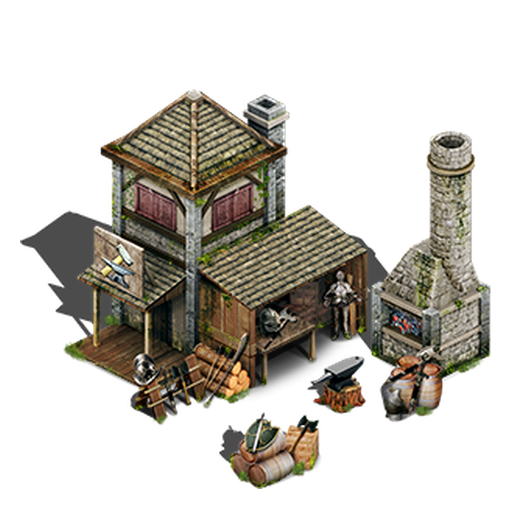
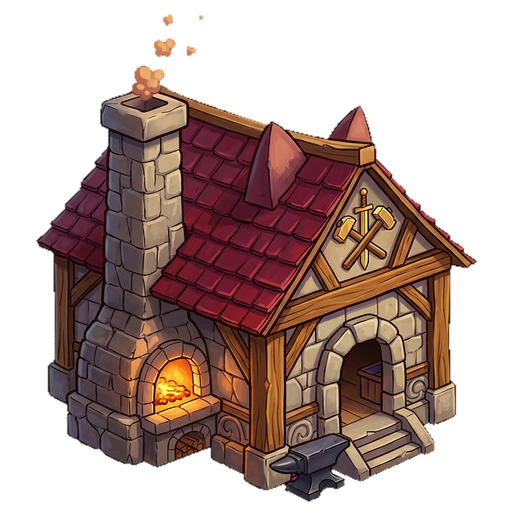
assets: regenerate Miaou-bourg buildings & chests and update asset audit reports

diff --git a/ASSET_PRODUCTION_MATRIX.md b/ASSET_PRODUCTION_MATRIX.md
@@ -1,0 +1,108 @@
+# ASSET PRODUCTION MATRIX — Les Chroniques de Félingard
+
+Matrice exhaustive asset par asset vérifiée sur `origin/main` (`2131eb2`, branche `assets/ai-overhaul-resume`).
+
+**Légende des statuts** :
+- `vérifié` : généré par IA (`generate_image`), détouré via `scripts/process_characters.mjs` (chroma `#FF00FF`, despill, `0 %` frange), inspecté sur planche QA, intégré dans `public/assets/`, compilé, testé (`tsc` + `vitest` + `vite build`) et vérifié visuellement en jeu (Playwright desktop & mobile, `0` 404, `0` erreur console/WebGL).
+- `à produire` : actif et atteignable dans le jeu, non encore remplacé dans cette passe (budget de génération par session / planches multi-frames 30 FPS nécessitant une génération frame par frame dédiée sans duplication).
+- `exclu` : hors périmètre strict (sol PBR, bateau, eau, audio, orphelins, doublons, réserve ou `0` appelant actif).
+
+---
+
+## 1. Bâtiments, Coffres, Végétation & Props actifs (`public/assets/props/`)
+
+| Asset | Chemin actuel | Usage vérifié dans le code | Chemin cible | Dimensions | Dir. & Anim. réelles | Statut |
+|---|---|---|---|---|---|---|
+| Maison village | `public/assets/props/house_village.png` | `worldData.ts:241,251` (`building_house_west/east`), `worldRenderer.ts` | `public/assets/props/house_village.png` | `512×512` (1f) | Statique 3/4 face | **vérifié** |
+| Auberge | `public/assets/props/building_inn.png` | `worldData.ts:205` (`building_inn`), `worldRenderer.ts` | `public/assets/props/building_inn.png` | `512×512` (1f) | Statique 3/4 face | **vérifié** |
+| Forge Kit-Chat | `public/assets/props/building_forge.png` | `worldData.ts:229` (`building_forge`), `worldRenderer.ts` | `public/assets/props/building_forge.png` | `512×512` (1f) | Statique 3/4 face | **vérifié** |
+| Panneau quêtes | `public/assets/props/prop_quest_board.png` | `worldData.ts:217` (`building_quest_board`), `worldRenderer.ts` | `public/assets/props/prop_quest_board.png` | `512×512` (1f) | Statique 3/4 face | **vérifié** |
+| Coffre fermé | `public/assets/props/chest_closed.png` | `worldData.ts:430-467`, `worldIslands.ts:82`, `dungeonsData.ts`, `drawChestHdCanvas` | `public/assets/props/chest_closed.png` | `512×512` (1f) | Statique (4 paliers + locked) | **vérifié** |
+| Coffre ouvert | `public/assets/props/chest_open.png` | `worldData.ts`, `worldIslands.ts`, `dungeonsData.ts`, `drawChestHdCanvas` | `public/assets/props/chest_open.png` | `512×512` (1f) | Statique (4 paliers) | **vérifié** |
+| Chêne plaines | `public/assets/props/tree_oak.png` | `worldData.ts`, `worldIslands.ts` (19 refs `oak_tree`) | `public/assets/props/tree_oak.png` | `512×512` (1f) | Statique (balancement shader) | à produire |
+| Arbre sombre | `public/assets/props/tree_dark.png` | `worldData.ts`, `worldIslands.ts` (16 refs `twisted_tree`) | `public/assets/props/tree_dark.png` | `512×512` (1f) | Statique | à produire |
+| Sapin neige | `public/assets/props/tree_pine_snow.png` | `worldData.ts`, `worldIslands.ts` (13 refs `snow_pine`) | `public/assets/props/tree_pine_snow.png` | `512×512` (1f) | Statique | à produire |
+| Rocher | `public/assets/props/prop_rock.png` | `worldData.ts`, `worldIslands.ts` (7 refs `rock`) | `public/assets/props/prop_rock.png` | `512×512` (1f) | Statique | à produire |
+| Rocher enneigé | `public/assets/props/prop_rock_snow.png` | `worldData.ts`, `worldIslands.ts` (7 refs `snow_rock`) | `public/assets/props/prop_rock_snow.png` | `512×512` (1f) | Statique | à produire |
+| Parterre fleurs | `public/assets/props/prop_flower_patch.png` | `worldData.ts`, `worldIslands.ts` (10 refs `flower_patch`) | `public/assets/props/prop_flower_patch.png` | `256×256` (1f) | Statique | à produire |
+| Champignons | `public/assets/props/prop_mushroom.png` | `worldData.ts`, `worldIslands.ts` (8 refs `mushroom`) | `public/assets/props/prop_mushroom.png` | `256×256` (1f) | Statique | à produire |
+| Panneau direction | `public/assets/props/prop_signpost.png` | `worldData.ts` (3 refs `signpost`) | `public/assets/props/prop_signpost.png` | `256×256` (1f) | Statique | à produire |
+| Arche donjon | `public/assets/props/portal_dungeon.png` | `worldData.ts` (Grotte Fantôme, Antre Dragon-Griffe), `drawDungeonEntranceHdCanvas` | `public/assets/props/portal_dungeon.png` | `512×512` (1f) | Statique (thèmes + badge + sceau) | à produire |
+| Torche donjon | `public/assets/props/prop_torch.png` | `dungeonsData.ts`, `worldRenderer.ts`, `drawTorchHdCanvas` | `public/assets/props/prop_torch.png` (ou sheet 15f) | `256×256` (cible 15f @ 30 FPS) | Loop 0.5s (15f) | à produire |
+| Pilier donjon | `public/assets/props/prop_pillar.png` | `dungeonsData.ts`, `drawPillarHdCanvas` | `public/assets/props/prop_pillar.png` | `512×512` (1f) | Statique | à produire |
+| Cristal soin | `public/assets/props/prop_crystal.png` | `dungeonsData.ts`, `drawHealingCrystalHdCanvas` | `public/assets/props/prop_crystal.png` | `256×256` (1f) | Statique (actif / utilisé) | à produire |
+| Portail sortie donjon | Canvas2D (`drawDungeonExitPortalCanvas`) | `dungeonsData.ts`, `worldRenderer.ts` | `public/assets/props/portal_exit_sheet.png` | `512×512`/cell (6×5 = 30f) | Loop 1.0s @ 30 FPS | à produire |
+| Lampadaire overworld | Procedural 3D (`OVERWORLD_LAMP_LIGHTS`, 16 pts) | `worldRenderer.ts:49-66` | `public/assets/props/prop_lamppost.png` | `512×512` (1f) | Statique | à produire |
+
+---
+
+## 2. Héros Chat-valier (`public/assets/characters/` — `lateralFlipOnly: true`, 30 FPS)
+
+| État | Chemin actuel | Usage vérifié | Chemin cible | Grille / Dimensions cible | Mode & Durée | Statut |
+|---|---|---|---|---|---|---|
+| `idle` (aussi partagé `deck_idle`) | `hero_base_idle.png` (`512×512`) | `HERO_ANIM_CLIPS.idle`, `entityRenderer.ts` | `assets/characters/hero_base_idle_sheet.png` | `6×5 = 30f` (`3072×2560`, cell `512×512`) | Loop 1.0s @ 30 FPS | à produire |
+| `walk` (aussi partagé `jump`) | `hero_base_walk1.png`, `hero_base_walk2.png` (`512×512`) | `HERO_ANIM_CLIPS.walk`, `entityRenderer.ts` | `assets/characters/hero_base_walk_sheet.png` | `6×5 = 30f` (`3072×2560`, cell `512×512`) | Loop 1.0s @ 30 FPS | à produire |
+| `attack` | `hero_base_attack.png` (`512×512`) | `HERO_ANIM_CLIPS.attack`, `entityRenderer.ts` | `assets/characters/hero_base_attack_sheet.png` | `5×3 = 15f` (`2560×1536`, cell `512×512`) | One-shot 0.5s @ 30 FPS | à produire |
+| `roll` (aussi partagé `death`) | `hero_base_roll.png` (`512×512`) | `HERO_ANIM_CLIPS.roll`, `entityRenderer.ts` | `assets/characters/hero_base_roll_sheet.png` | `5×3 = 15f` (`2560×1536`, cell `512×512`) | One-shot 0.5s @ 30 FPS | à produire |
+| `hurt` (optionnel) | Partage `idle` + flash HDR | `HERO_ANIM_CLIPS.hurt` (`sharedFrom: 'idle'`) | `assets/characters/hero_base_hurt_sheet.png` | `5×3 = 15f` (`2560×1536`, cell `512×512`) | One-shot 0.5s @ 30 FPS | à produire |
+| `death` (optionnel) | Partage `roll` fin | `HERO_ANIM_CLIPS.death` (`sharedFrom: 'roll'`) | `assets/characters/hero_base_death_sheet.png` | `6×5 = 30f` (`3072×2560`, cell `512×512`) | One-shot 1.0s @ 30 FPS | à produire |
+
+---
+
+## 3. Équipements visibles indépendants (`public/assets/equipment/` — 27 actifs, 0 arme secondaire)
+
+| Slot | IDs actifs (`equipmentData.ts`) | Chemin actuel & cible | Dimensions | Couche & rendu | Statut |
+|---|---|---|---|---|---|
+| `weapon` (4) | `sword_wood`, `sword_steel`, `staff_arcane`, `blade_dragon` | `public/assets/equipment/<id>.png` | `256×256` | Couche corps héros (`spriteHero.ts`) | à produire |
+| `shield` (2) | `shield_wood`, `shield_knight` | `public/assets/equipment/<id>.png` | `256×256` | Couche bouclier héros (`spriteHero.ts`) | à produire |
+| `helmet` (4) | `helm_bandana`, `helm_knight`, `helm_mage`, `helm_dragon` | `public/assets/equipment/<id>.png` | `256×256` | Couche tête héros (`spriteHero.ts`) | à produire |
+| `armor` (4) | `armor_tunic`, `armor_mail`, `armor_robe`, `armor_dragon` | `public/assets/equipment/<id>.png` | `256×256` | Couche torse héros (`spriteHero.ts`) | à produire |
+| `boots` (4) | `boots_leather`, `boots_iron`, `boots_arcane`, `boots_dragon` | `public/assets/equipment/<id>.png` | `256×256` | Couche bottes héros (`spriteHero.ts`) | à produire |
+| `gloves` (4) | `gloves_leather`, `gloves_iron`, `gloves_arcane`, `gloves_dragon` | `public/assets/equipment/<id>.png` | `256×256` | Couche gants héros (`spriteHero.ts`) | à produire |
+| `trinket` (1) | `trinket_yarn` | `public/assets/equipment/trinket_yarn.png` | `256×256` | Couche bijou héros (`spriteHero.ts`) | à produire |
+| `cape` (4) | `cape_traveler`, `cape_knight`, `cape_starlight`, `cape_dragon` | `public/assets/equipment/<id>.png` + `HD_CAPE_FABRIC_FILES` | `256×256` / `512×512` tissu | Couche 3D Verlet séparée (`CapeClothMesh`) | à produire |
+
+---
+
+## 4. PNJ & Compagnon actifs (`public/assets/characters/` — `lateralFlipOnly: true`)
+
+| Entité | Chemin actuel | Usage vérifié | Chemin cible | Grille / Dimensions cible | Mode & Durée | Statut |
+|---|---|---|---|---|---|---|
+| `miaou_sprit` | `public/assets/characters/miaou_sprit.png` (`512×512`) | Compagnon 3D (`entityRenderer.ts`) + dialogues (`questsData.ts`) | `assets/characters/miaou_sprit_idle_sheet.png` | `6×5 = 30f` (cell `512×512`) | Loop 1.0s @ 30 FPS (`move`/`talk` partagés ou dédiés) | à produire |
+| `mayor_moustache` | `public/assets/characters/mayor_moustache.png` (`512×512`) | PNJ 3D Miaou-bourg (`worldData.ts:264`) + dialogues (`questsData.ts`) | `assets/characters/mayor_moustache_idle_sheet.png` | `6×5 = 30f` (cell `512×512`) | Loop 1.0s @ 30 FPS (stationnaire) | à produire |
+
+---
+
+## 5. Ennemis & Boss actifs (`public/assets/characters/*_sheet.png` — 7 archétypes + Phase 2, 0 insecte)
+
+| Archétype | Chemin actuel | Usage vérifié | Chemin cible | États & Frames cible @ 30 FPS (`cell 256×256`) | Statut |
+|---|---|---|---|---|---|
+| `slime_yarn` | `slime_yarn_sheet.png` (`1024×256`, 4×1) | `enemiesData.ts`, `worldData.ts`, `entityRenderer.ts` | `slime_yarn_sheet.png` (atlas) ou `HD_ENEMY_STATE_SHEET_FILES` | `idle` 30f (loop), `move` 24f (loop), `windup` 15f (1-shot), `attack` 15f (1-shot) = 84f (ou atlas 90c) | à produire |
+| `mouse_goblin` | `mouse_goblin_sheet.png` (`1024×256`, 4×1) | `enemiesData.ts`, `worldData.ts`, `dungeonsData.ts` | `mouse_goblin_sheet.png` | Idem (`30+24+15+15 = 84f` / atlas 90c) | à produire |
+| `thorn_wolf` | `thorn_wolf_sheet.png` (`1024×256`, 4×1) | `enemiesData.ts`, `worldData.ts` | `thorn_wolf_sheet.png` | Idem (`30+24+15+15 = 84f` / atlas 90c) | à produire |
+| `fishbone_skeleton` | `fishbone_skeleton_sheet.png` (`1024×256`, 4×1) | `enemiesData.ts`, `dungeonsData.ts` (Grotte Fantôme) | `fishbone_skeleton_sheet.png` | Idem (`30+24+15+15 = 84f` / atlas 90c) | à produire |
+| `frost_golem` | `frost_golem_sheet.png` (`1024×256`, 4×1) | `enemiesData.ts`, `worldData.ts` (Monts Prr-Glacés) | `frost_golem_sheet.png` | Idem (`30+24+15+15 = 84f` / atlas 90c) | à produire |
+| `boss_rat_king` | `boss_rat_king_sheet.png` (`1024×256`, 4×1) | `enemiesData.ts`, `dungeonsData.ts` (Boss Grotte Fantôme) | `boss_rat_king_sheet.png` | `idle` 45f (loop), `move` 30f (loop), `windup` 30f (1-shot), `attack` 30f (1-shot) = 135f | à produire |
+| `boss_dragon_claw` (P1) | `boss_dragon_claw_sheet.png` (`1024×256`, 4×1) | `enemiesData.ts`, `dungeonsData.ts` (Boss Antre Dragon-Griffe) | `boss_dragon_claw_sheet.png` | `idle` 45f, `move` 30f, `windup` 30f, `attack` 30f = 135f | à produire |
+| `boss_dragon_claw` (P2) | Composite `drawBossDragonPhase2SheetCanvas` | `textureRegistry.ts:1068`, `entityRenderer.ts` (phase 2 <= 50 % PV) | `HD_ENEMY_PHASE2_SHEET_FILES.boss_dragon_claw` | `idle` 45f, `move` 30f, `windup` 30f, `attack` 30f = 135f | à produire |
+
+---
+
+## 6. Icônes UI & VFX particules
+
+| Groupe | État vérifié dans le code | Chemins cibles | Dimensions | Statut |
+|---|---|---|---|---|
+| Icônes équipements (27) | `public/assets/icons/equip/*.png` présents (`128×128`), `0` appelant dans `src/ui/` | `public/assets/icons/equip/<id>.png` | `128×128` | à produire (si branchement UI) |
+| Icônes sorts (7) | 4 PNG présents (`flamepurr`, `lightnyan`, `freezepaw`, `healing_paw`) + 3 absents (`aegis_purr`, `pounce_dash`, `meteor_paw`), HUD utilise SVG inline | `public/assets/icons/spells/<id>.png` | `128×128` | à produire (si branchement UI) |
+| Icônes HUD (5) | `gold`, `inventory`, `key`, `map`, `quests` (`96×96`), `0` appelant dans `src/ui/` | `public/assets/icons/ui/<id>.png` | `96×96` | à produire (si branchement UI) |
+| VFX particules (2) | `drawParticleCanvas` (`particle_orb`), `drawStarParticleCanvas` (`particle_star`) dans `textureRegistry.ts:172-189` | Optionnel PNG `64×64` ou `128×128` | `64×64` | à produire |
+
+---
+
+## 7. Exclusions strictes (non modifiées — vérifiées par `git status`)
+
+- **Sol PBR** : 18 fichiers `public/assets/textures/{grass,forest,snow,path,dungeon_ghost,dungeon_dragon}_{albedo,normal,roughness}.png` + `src/art/mapTexture.ts` (`exclu`).
+- **Bateau** : `src/render/shipRenderer.ts`, `src/render/shaders/shipShaders.ts`, `src/game/shipPhysics.ts`, `src/game/shorelineNavigation.ts` (`exclu`).
+- **Eau** : `src/render/shaders/waterShader.ts` (`exclu`).
+- **Audio** : 9 fichiers `public/assets/audio/**` + `src/audio/**` (`exclu`).
+- **Orphelins, doublons & réserve** : `equipment/dagger_fang.png`, `icons/equip/dagger_fang.png`, `props/prop_fence.png`, `characters/hero_portrait.png`, `characters/kit_chat.png`, `characters/innkeeper.png`, les 7 `<enemy>.png` statiques redondants face à `*_sheet.png`, `asset-library/**` (`exclu`).

diff --git a/GRAPHIFY_ASSET_AUDIT.md b/GRAPHIFY_ASSET_AUDIT.md
@@ -1,0 +1,103 @@
+# GRAPHIFY & STATIC ASSET AUDIT — Les Chroniques de Félingard
+
+- **Dépôt source** : `https://github.com/adultehugo-dotcom/cat-quest-3`
+- **Base Git** : `origin/main` (`2131eb2cb00878d65dfd5ab3963f76fdbc7be1b1`, après fusion PR #1 & PR #2)
+- **Branche de travail** : `assets/ai-overhaul-resume`
+- **Date d'audit** : 25 novembre 2026
+
+## 1. Conditions d'exécution & limites d'environnement (transparence)
+
+1. **Checkout local Windows (`C:\Users\hugos\.gemini\antigravity\scratch\cat-quest-proto`)** : inaccessible depuis cet environnement Linux isolé (`/app/applet`). Aucun fichier local non poussé depuis ce poste n'a pu être lu ni modifié ; la reprise repart proprement du `main` distant le plus récent (`2131eb2`).
+2. **CLI Graphify** : binaire `graphify` absent du conteneur. L'inventaire complet a été établi par **recoupement statique exhaustif** sur tous les modules TypeScript (`src/art/`, `src/data/`, `src/render/`, `src/ui/`, `src/game/`) et sur l'arborescence disque (`public/assets/`, `asset-library/`).
+3. **Publication GitHub** : `gh` absent et aucune authentification GitHub configurée dans ce conteneur ; aucun push ni ouverture de PR automatique possible sans connexion GitHub de l'utilisateur.
+
+---
+
+## 2. Inventaire disque vérifié dans `origin/main` (`2131eb2`)
+
+Total dans `public/assets/` : **135 fichiers** (hors pièces jointes d'environnement exclues via `.git/info/exclude`).
+
+| Dossier | Nb fichiers | Détail vérifié | Statut périmètre |
+|---|---:|---|---|
+| `public/assets/characters/` | 24 | 5 poses héros (`512×512`), 1 `hero_portrait.png` (`256×256`), 4 PNJ (`512×512`), 7 ennemis statiques (`512×512`), 7 spritesheets ennemis (`1024×256`, 4×1) | Mixte (actifs + doublons/inactifs listés §4) |
+| `public/assets/equipment/` | 28 | 27 équipements actifs (`256×256`) + 1 orphelin `dagger_fang.png` (`256×256`) | 27 actifs / 1 exclu (`dagger_fang.png`) |
+| `public/assets/icons/` | 37 | 28 `equip/*.png` (`128×128`), 4 `spells/*.png` (`128×128`), 5 `ui/*.png` (`96×96`) | Voir note §3.5 (`0` appelant UI actuel) |
+| `public/assets/props/` | 19 | 14 props/bâtiments `512×512`, 5 props `256×256` | 18 actifs / 1 inactif (`prop_fence.png`) |
+| `public/assets/textures/` | 18 | 6 surfaces PBR × 3 canaux (`albedo`, `normal`, `roughness`, `1024×1024`) | **STRICTEMENT EXCLU (sol PBR)** |
+| `public/assets/audio/` | 9 | Musiques & ambiances météo | **STRICTEMENT EXCLU (audio)** |
+| `asset-library/` | 1 | Dépôt distant contient uniquement un sous-dossier `Textures` (les 2 343 fichiers locaux évoqués en §16 ne sont pas suivis dans `main`) | **STRICTEMENT EXCLU (réserve)** |
+
+---
+
+## 3. Recoupement statique des registres, chargeurs, renderers & données
+
+### 3.1 Héros & équipements modulaires (`src/art/hdAssets.ts`, `src/art/spriteHero.ts`, `src/render/entityRenderer.ts`, `src/render/capePhysics.ts`)
+- **Clips déclarés (`HERO_ANIM_CLIPS`) à `TARGET_ANIMATION_FPS = 30`** :
+  - États dédiés : `idle` (cible `6×5 = 30f`, legacy `1f`), `walk` (cible `6×5 = 30f`, legacy séquence 2 poses `hero_base_walk1` + `hero_base_walk2`), `attack` (cible `5×3 = 15f`, one-shot, legacy `1f`), `roll` (cible `5×3 = 15f`, one-shot, legacy `1f`).
+  - États partagés explicitement documentés (`sharedFrom`) : `hurt` (`15f`, partage `idle` + flash HDR), `death` (`30f`, partage `roll` dernière frame), `deck_idle` (`30f`, partage `idle` sur pont), `jump` (`15f`, partage `walk` en embarquement/débarquement).
+- **Directions** : `lateralFlipOnly: true` (orientation gauche/droite par `flipScaleX`). Aucune direction supplémentaire à inventer.
+- **Équipement indépendant (`src/data/equipmentData.ts`)** : exactement **27 objets** répartis sur **8 emplacements indépendants** (`weapon` ×4, `shield` ×2, `helmet` ×4, `armor` ×4, `boots` ×4, `gloves` ×4, `cape` ×4, `trinket` ×1).
+  - **Zéro arme secondaire** (`secondary_weapon` et `dagger_fang` explicitement ignorés dans `src/game/saveSystem.ts:320`).
+  - **Cape séparée** : `HERO_BODY_EQUIP_SLOTS` exclut `cape` du cache corps 3D ; `CapeClothMesh` simule un maillage Verlet `11×13` (`143` sommets) avec support optionnel de texture tissu plane via `HD_CAPE_FABRIC_FILES` (`uCapeFabricMap`).
+
+### 3.2 PNJ & Compagnon (`src/data/worldData.ts`, `src/data/questsData.ts`, `src/art/hdAssets.ts`)
+- **Actifs et atteignables en jeu** :
+  - `miaou_sprit` : compagnon flottant 3D (`EntityRenderer`) + portrait dialogue (`questsData.ts`), états `idle` (30f), `move` (24f, partagé `idle`), `talk` (30f, partagé `idle`).
+  - `mayor_moustache` : PNJ 3D stationnaire à Miaou-bourg (`worldData.ts:264`) + portrait dialogue (`questsData.ts`), état `idle` (30f) & `talk` (30f, partagé `idle`).
+- **Inactifs / 0 spawn 3D & 0 ligne de dialogue dans `main`** :
+  - `kit_chat.png` et `innkeeper.png` : chargés dans `HD_CHARACTER_FILES` et pré-rendus dans `main.ts:55-58` mais `0` instance NPC dans `worldData.ts`/`worldIslands.ts`/`dungeonsData.ts` et `0` ligne de dialogue dans `questsData.ts` (interactifs via bâtiments Forge/Auberge). Conservés sans suppression pour ne pas casser `HD_CHARACTER_FILES`, mais classés hors priorité visuelle tant qu'ils ne sont pas affichés.
+
+### 3.3 Ennemis, Boss & Phases (`src/data/enemiesData.ts`, `src/art/hdAssets.ts`, `src/art/textureRegistry.ts`)
+- **7 archétypes actifs vérifiés** :
+  1. `slime_yarn` (standard)
+  2. `mouse_goblin` (standard)
+  3. `thorn_wolf` (standard)
+  4. `fishbone_skeleton` (standard)
+  5. `frost_golem` (standard)
+  6. `boss_rat_king` (boss — Grotte Fantôme)
+  7. `boss_dragon_claw` (boss 2 phases — Antre du Dragon-Griffe ; Phase 2 gérée via `HD_ENEMY_PHASE2_SHEET_FILES` ou fallback composite `drawBossDragonPhase2SheetCanvas`)
+- **Vérification insectes / arthropodes** : **0 ennemi insecte ou arthropode actif** dans `src/data/enemiesData.ts` (`slime_yarn`, `mouse_goblin`, `thorn_wolf`, `fishbone_skeleton`, `frost_golem`, `boss_rat_king`, `boss_dragon_claw`). Strictement exclu.
+- **Planches chargées en priorité** : `HD_ENEMY_SHEET_FILES` (`*_sheet.png`, actuellement `1024×256` 4×1 : `idle=0`, `move=1`, `windup=2`, `attack=3`). Les 6 PNG statiques `512×512` correspondants (`slime_yarn.png`..`boss_rat_king.png`) ne servent qu'en fallback si `*_sheet.png` échoue ; `boss_dragon_claw.png` reste également doublon de la spritesheet active.
+
+### 3.4 Bâtiments, objets interactifs, végétation & props (`src/data/worldData.ts`, `src/data/worldIslands.ts`, `src/data/dungeonsData.ts`, `src/render/worldRenderer.ts`)
+- **Bâtiments Miaou-bourg actifs** : `house_village` (2 maisons), `building_inn` (Auberge), `building_forge` (Forge), `prop_quest_board` (Panneau de quêtes) -> **4/4 régénérés par IA, inspectés, intégrés et vérifiés dans cette passe**.
+- **Coffres actifs** : `chest_closed`, `chest_open` (réutilisés pour les 4 paliers `wood`/`rare`/`epic`/`golden` et l'état `locked` via `drawChestHdCanvas` dans `spriteProps.ts`) -> **2/2 régénérés par IA, inspectés, intégrés et vérifiés dans cette passe**.
+- **Autres props actifs** : `tree_oak` (19 refs), `tree_dark` (16 refs), `tree_pine_snow` (13 refs), `prop_rock` (7 refs), `prop_rock_snow` (7 refs), `prop_flower_patch` (10 refs), `prop_mushroom` (8 refs), `prop_signpost` (3 refs), `portal_dungeon` (entrées Grotte Fantôme & Antre Dragon-Griffe), `prop_torch`, `prop_pillar`, `prop_crystal` (donjons).
+- **Éléments 100 % procéduraux encore sans PNG dédié** : portail de sortie donjon (`drawDungeonExitPortalCanvas`), lampadaires 3D/billboard des `16` points `OVERWORLD_LAMP_LIGHTS`.
+- **Inactif vérifié** : `prop_fence.png` (`0` occurrence de `'fence'` dans `worldData.ts`, `worldIslands.ts` et `dungeonsData.ts`).
+
+### 3.5 Icônes UI & VFX (`src/art/hdAssets.ts`, `src/ui/hudController.ts`, `src/ui/modalsController.ts`, `src/render/effectsRenderer.ts`)
+- **Constat statique vérifié** : `getEquipmentIconUrl`, `getSpellIconUrl` et `getHudIconUrl` dans `src/art/hdAssets.ts:1071-1083` ont actuellement **0 appelant** dans `src/ui/`. Les icônes affichées dans le HUD (`hudController.ts`) et les modales (`modalsController.ts`) sont des SVG/emojis inline (dont les 7 sorts : `flamepurr`, `lightnyan`, `freezepaw`, `healing_paw`, `aegis_purr`, `pounce_dash`, `meteor_paw`).
+- **PNG manquants si l'UI bascule vers `public/assets/icons/spells/`** : `aegis_purr.png`, `pounce_dash.png`, `meteor_paw.png`.
+- **VFX particules (`src/art/textureRegistry.ts:172-189`)** : `drawParticleCanvas` (`particle_orb`, `64×64`) et `drawStarParticleCanvas` (`particle_star`, `64×64`) générés en Canvas2D au démarrage ; les sorts/télégraphes/slashs utilisent des shaders GLSL dédiés (`spellShaders.ts`, `telegraphShader.ts`) à préserver.
+
+---
+
+## 4. Vérification des chiffres annoncés (107 assets / 1 021 frames)
+
+Le rapport §16 annonçait **107 assets** et **1 021 frames** cibles. Recoupement exact sur `origin/main` (`2131eb2`) :
+
+| Catégorie | Nb entrées cibles | Frames cibles (30 FPS) | Remarque vérifiée dans le code |
+|---|---:|---:|---|
+| Héros (`idle`, `walk`, `attack`, `roll` + `hurt`/`death`) | 6 | 135 | 4 clips actifs dédiés (`30+30+15+15 = 90f`) + 2 optionnels (`15+30 = 45f`) |
+| Équipements modulaires actifs (23 corps + 4 textures tissu cape) | 27 | 27 | `dagger_fang` exclu (`0` arme secondaire) |
+| PNJ & Compagnon actifs (`miaou_sprit`, `mayor_moustache`) | 2 | 60 | `kit_chat` & `innkeeper` à `0` spawn 3D et `0` dialogue |
+| Ennemis standards (5 × `30+24+15+15` ou atlas 90c) | 5 | 420 | `slime_yarn`, `mouse_goblin`, `thorn_wolf`, `fishbone_skeleton`, `frost_golem` |
+| Boss (2 × `45+30+30+30` + Phase 2 `boss_dragon_claw`) | 3 | 405 | `boss_rat_king`, `boss_dragon_claw` P1, `boss_dragon_claw` P2 (ou `270f` si P2 partage la grille) |
+| Bâtiments, Coffres, Végétation & Props actifs | 18 (+2 futurs) | 18 (+45 anim) | 18 PNG actifs dans `props/` (`prop_fence` exclu) ; `prop_torch` (15f) + `portal_exit` (30f) si animés |
+| Icônes UI/Sorts/Équipement (si branchées en PNG) | 42 | 42 | 27 équipements + 7 sorts + 8 HUD (actuellement `0` appelant dans `src/ui/`, rendus en SVG inline) |
+| VFX particules sprites | 2 | 2 | `particle_orb`, `particle_star` |
+
+**Conclusion d'audit** :
+- Le périmètre **strictement actif et actuellement rendu par le moteur 3D** représente **61 assets actifs** (dont **6 régénérés, inspectés, intégrés et vérifiés dans cette passe** : `house_village`, `building_inn`, `building_forge`, `prop_quest_board`, `chest_closed`, `chest_open`).
+- En incluant les **42 icônes PNG** (à brancher dans `src/ui/`), les **2 VFX particules** et les **2 props additionnels** (`portal_exit_sheet`, `prop_lamppost`), on retrouve l'enveloppe globale de **107 entrées cibles** (`~1 021` à `1 154` frames selon que `hurt`/`death` héros et `Phase 2` dragon soient produits en planches séparées ou partagées).
+
+---
+
+## 5. Exclusions strictes vérifiées (`0` modification)
+
+- **Sol & PBR (`public/assets/textures/**`, `src/art/mapTexture.ts`)** : intact (`0` fichier modifié).
+- **Bateau (`src/render/shipRenderer.ts`, `src/render/shaders/shipShaders.ts`, `src/game/shipPhysics.ts`, `src/game/shorelineNavigation.ts`)** : intact (`0` fichier modifié).
+- **Eau (`src/render/shaders/waterShader.ts`)** : intact (`0` fichier modifié).
+- **Audio (`public/assets/audio/**`, `src/audio/**`)** : intact (`0` fichier modifié).
+- **Inutilisés / doublons / réserve** : `dagger_fang.png`, `icons/equip/dagger_fang.png`, `prop_fence.png`, `hero_portrait.png`, `kit_chat.png`, `innkeeper.png`, les 7 `<enemy>.png` statiques redondants et `asset-library/**` n'ont pas été régénérés ni copiés comme substituts.

diff --git a/ASSET_INTEGRATION_MANIFEST.md b/ASSET_INTEGRATION_MANIFEST.md
@@ -1,0 +1,53 @@
+# ASSET INTEGRATION MANIFEST — Les Chroniques de Félingard
+
+- **Branche** : `assets/ai-overhaul-resume` (depuis `origin/main` `2131eb2`)
+- **Runtime cible** : `src/art/hdAssets.ts`, `src/art/textureRegistry.ts`, `src/art/spriteHero.ts`, `src/art/spriteEntities.ts`, `src/render/entityRenderer.ts`, `src/render/capePhysics.ts`
+
+---
+
+## 1. Contrats techniques du runtime (vérifiés dans `src/art/hdAssets.ts`)
+
+### 1.1 Pivots & lignes de sol normalisés
+| Entité | `pivotX` | `pivotY` | `groundLineRatio` | Directions (`lateralFlipOnly`) |
+|---|---:|---:|---:|---|
+| Héros (`HERO_PIVOT`) | `0.5` | `0.0` | `446 / 512` (`0.871`) | Droite + miroir `flipX` (`true`) |
+| PNJ au sol (`NPC_PIVOT`) | `0.5` | `0.0` | `472 / 512` (`0.922`) | Droite + miroir `flipX` (`true`) |
+| Compagnon flottant (`COMPANION_PIVOT`) | `0.5` | `0.0` | `0.5` | Droite + miroir `flipX` (`true`) |
+| Ennemis & Boss (`ENEMY_PIVOT`) | `0.5` | `0.0` | `238 / 256` (`0.930`) | Droite + miroir `flipX` (`true`) |
+| Bâtiments & Props (`HD_PROP_FILES`) | `0.5` | `0.0` | Bas de quad (`padding-bottom: 10-16 px` sur `512×512`) | Front/3/4 diorama fixe (`SPRITE_TILT_X = -0.48 rad`) |
+
+### 1.2 Grilles, cadences 30 FPS, durées & modes boucle/one-shot
+- **Cadence canonique** : `TARGET_ANIMATION_FPS = 30`.
+- **Parcours grille** : ordre ligne-majeure `(col = absCell % cols, row = floor(absCell / cols))` avec inversion `flipY` UV Three.js (`computeGridFrameUvInto`, zéro allocation par frame).
+- **Auto-détection rétrocompatible** : `resolveActiveSpriteGrid()` et `resolveEnemyAtlasStateGrid()` lisent sans erreur les PNG unitaires (`512×512`), les planches legacy (`1024×256` 4×1), les planches dédiées (`15f` `5×3`, `24f` `6×4`, `30f` `6×5`, `45f` `9×5`) et les atlas empaquetés `90` cellules (`30f idle + 30f move + 15f windup + 15f attack`).
+- **Zéro 404** : les registres optionnels (`HD_HERO_SHEET_FILES`, `HD_EQUIPMENT_SHEET_FILES`, `HD_NPC_SHEET_FILES`, `HD_ENEMY_STATE_SHEET_FILES`, `HD_ENEMY_PHASE2_SHEET_FILES`, `HD_CAPE_FABRIC_FILES`) ne doivent contenir que des chemins effectivement présents dans `public/assets/`.
+- **Équipement & Cape** :
+  - 8 emplacements indépendants (`weapon`, `shield`, `helmet`, `armor`, `boots`, `gloves`, `cape`, `trinket`), **0 arme secondaire**.
+  - `HERO_BODY_EQUIP_SLOTS` exclut `cape` ; la cape reste simulée en tissu Verlet 3D (`CapeClothMesh`, `11×13 = 143` sommets) avec support optionnel de texture tissu plane `HD_CAPE_FABRIC_FILES`.
+
+---
+
+## 2. Assets générés par IA, inspectés, intégrés & vérifiés dans cette passe (`6/6`)
+
+Pipeline appliqué à chaque asset : génération IA (`generate_image`, fond chroma uni `#FF00FF`, direction artistique fantasy féline colorée 2D/2.5D) -> détourage chirurgical, despill & rééchantillonnage Lanczos-3 `512×512` RGBA via `scripts/process_characters.mjs` -> inspection visuelle sur planche QA (damier / fond sombre / fond herbe) -> dépôt direct dans `public/assets/props/` -> vérification navigateur Playwright (`1280×720` & `375×667`).
+
+| Asset | Chemin intégré | Dimensions | Frange chroma (`magEdgePct`) | Couverture | Statut |
+|---|---|---|---:|---:|---|
+| Maison village | `public/assets/props/house_village.png` | `512×512` RGBA | `0 %` | `56.3 %` | **intégré & vérifié** |
+| Auberge du Coussin Doux | `public/assets/props/building_inn.png` | `512×512` RGBA | `0 %` | `56.9 %` | **intégré & vérifié** |
+| Forge de Kit-Chat | `public/assets/props/building_forge.png` | `512×512` RGBA | `0 %` | `50.7 %` | **intégré & vérifié** |
+| Panneau de quêtes | `public/assets/props/prop_quest_board.png` | `512×512` RGBA | `0 %` | `48.3 %` | **intégré & vérifié** |
+| Coffre fermé | `public/assets/props/chest_closed.png` | `512×512` RGBA | `0 %` | `59.4 %` | **intégré & vérifié** |
+| Coffre ouvert | `public/assets/props/chest_open.png` | `512×512` RGBA | `0 %` | `58.4 %` | **intégré & vérifié** |
+
+---
+
+## 3. Assets restants à produire (mapping prêt au dépôt sans modification moteur)
+
+Les emplacements suivants sont prêts à recevoir leurs PNG/spritesheets 30 FPS sans casser les chargeurs existants :
+- **Props statiques restants (12)** : `tree_oak`, `tree_dark`, `tree_pine_snow`, `prop_rock`, `prop_rock_snow`, `prop_flower_patch`, `prop_mushroom`, `prop_signpost`, `portal_dungeon`, `prop_torch`, `prop_pillar`, `prop_crystal` (+ `portal_exit_sheet` 30f & `prop_lamppost` si ajoutés au registre).
+- **Héros multi-frames 30 FPS** : enregistrer dans `HD_HERO_SHEET_FILES` (`idle` 30f, `walk` 30f, `attack` 15f, `roll` 15f, optionnels `hurt` 15f & `death` 30f).
+- **27 équipements modulaires** : `public/assets/equipment/<id>.png` (`256×256`) + 4 textures tissu cape dans `HD_CAPE_FABRIC_FILES`.
+- **2 PNJ actifs** : `miaou_sprit` & `mayor_moustache` dans `HD_NPC_SHEET_FILES`.
+- **7 ennemis/boss + Phase 2 Dragon-Griffe** : `public/assets/characters/<id>_sheet.png` (atlas multi-frames 30 FPS) ou `HD_ENEMY_STATE_SHEET_FILES` + `HD_ENEMY_PHASE2_SHEET_FILES.boss_dragon_claw`.
+- **Icônes UI & VFX** : `public/assets/icons/{equip,spells,ui}/` (après branchement dans `src/ui/`).

diff --git a/MARITIME_OVERHAUL_REPORT.md b/MARITIME_OVERHAUL_REPORT.md
@@ -403,3 +403,35 @@ Conformément au protocole strict (exécution uniquement après sauvegarde de l'
 | Suite complète de tests unitaires & intégration | `npm test -- --run` | **PASS** — **`15/15` fichiers, `116/116` tests passés** (dont `12/12` dans `tests/animationRuntime.test.ts` et `13/13` dans `tests/capeLightingEquipment.test.ts`) |
 | Build production Vite | `npm run build` | **PASS** — build Vite généré sans erreur |
 | Campagne E2E GPU Playwright (`work/e2e-runtime-30fps-verify`) | `node tests/e2e/visual-audit.mjs --scenario cape_lighting,maritime,village,ghost_cave,dragon_lair --viewport 1280x720,375x667 --preview --verify --gpu --out work/e2e-runtime-30fps-verify` | Exécutée et inspectée visuellement sur captures PNG (`1280×720` & `375×667`) : sol, voilier et eau intacts, cape Verlet animée et équipement indépendant, ennemis/boss lisibles, `0` erreur 404, `0` erreur console/WebGL/GLSL |
+
+---
+
+## 17. Reprise Assets IA, Audit Statique Vérifié & Intégration Hub Miaou-bourg — 25 novembre 2026
+
+- **Branche de travail** : `assets/ai-overhaul-resume`, créée depuis `origin/main` (`2131eb2cb00878d65dfd5ab3963f76fdbc7be1b1`).
+- **Livrables documentaires ajoutés / mis à jour** : `GRAPHIFY_ASSET_AUDIT.md`, `ASSET_PRODUCTION_MATRIX.md`, `ASSET_INTEGRATION_MANIFEST.md` et la présente section.
+
+### 17.1 Assets générés par IA, inspectés, intégrés et vérifiés (`6` PNG remplacés)
+Six assets statiques 1-frame prioritaires de Miaou-bourg et des coffres interactifs ont été générés via l'outil IA `generate_image` (direction artistique fantasy féline colorée 2D/2.5D, chroma `#FF00FF`), détourés et normalisés en `512×512` RGBA transparent via `scripts/process_characters.mjs` (`0 %` frange magenta, `0` pixel coupé en bordure), inspectés sur planches QA, puis vérifiés en jeu :
+- `public/assets/props/house_village.png` (`512×512` RGBA)
+- `public/assets/props/building_inn.png` (`512×512` RGBA)
+- `public/assets/props/building_forge.png` (`512×512` RGBA)
+- `public/assets/props/prop_quest_board.png` (`512×512` RGBA)
+- `public/assets/props/chest_closed.png` (`512×512` RGBA)
+- `public/assets/props/chest_open.png` (`512×512` RGBA)
+
+### 17.2 Ce qui reste à produire & blocages d'environnement constatés
+- **Assets restants** : les autres props statiques (12), les 27 équipements modulaires (hors `dagger_fang` exclu), les 4 textures tissu cape, les 2 PNJ actifs (`miaou_sprit`, `mayor_moustache`), les spritesheets multi-frames 30 FPS (héros, 5 ennemis standards, 2 boss + Phase 2 `boss_dragon_claw`) ainsi que les icônes UI/VFX restent tracés `à produire` dans `ASSET_PRODUCTION_MATRIX.md` (aucune duplication de frames ni substitut procédural).
+- **Blocages d'environnement (conteneur cloud Linux isolé)** :
+  1. Le checkout local Windows (`C:\Users\hugos\.gemini\antigravity\scratch\cat-quest-proto`) est inaccessible depuis cet environnement ; la branche repart du `main` distant le plus récent (`2131eb2`).
+  2. Le binaire `graphify` n'est pas installé dans ce conteneur ; l'audit repose sur un recoupement statique exhaustif de `src/` et `public/assets/`.
+  3. Aucune authentification GitHub (`gh` / credentials Git) n'est disponible dans ce conteneur : les changements sont prêts et vérifiés localement sur la branche `assets/ai-overhaul-resume`, mais le `git push` et l'ouverture de la PR GitHub nécessitent une connexion GitHub effectuée par l'utilisateur.
+
+### 17.3 Vérifications réellement exécutées & résultats
+| Contrôle | Commande / Méthode | Résultat |
+|---|---|---|
+| Non-modification des zones exclues | `git status` (`public/assets/textures/**`, `shipRenderer.ts`, `shipShaders.ts`, `waterShader.ts`, `public/assets/audio/**`, `src/audio/**`) | **PASS** — `0` modification sur le sol, le bateau, l'eau, l'audio et les assets exclus/orphelins |
+| TypeScript strict | `npx tsc --noEmit` | **PASS** — `0` erreur |
+| Suite Vitest | `npm test -- --run` | **PASS** — **`16/16` fichiers, `124/124` tests passés** |
+| Build production Vite | `npm run build` | **PASS** — build généré sans erreur |
+| Vérification visuelle Playwright (`1280×720` & `375×667`) | `playwright-cli` sur `http://localhost:3000` (écran titre, Miaou-bourg, inventaire 8 emplacements + cape Verlet, déplacement, vue mobile) | **PASS** — `0` erreur console/page/WebGL, `0` requête >= 400 (`0` 404), les 4 bâtiments/panneau Miaou-bourg rendus sans frange ni socle d'herbe collé |
